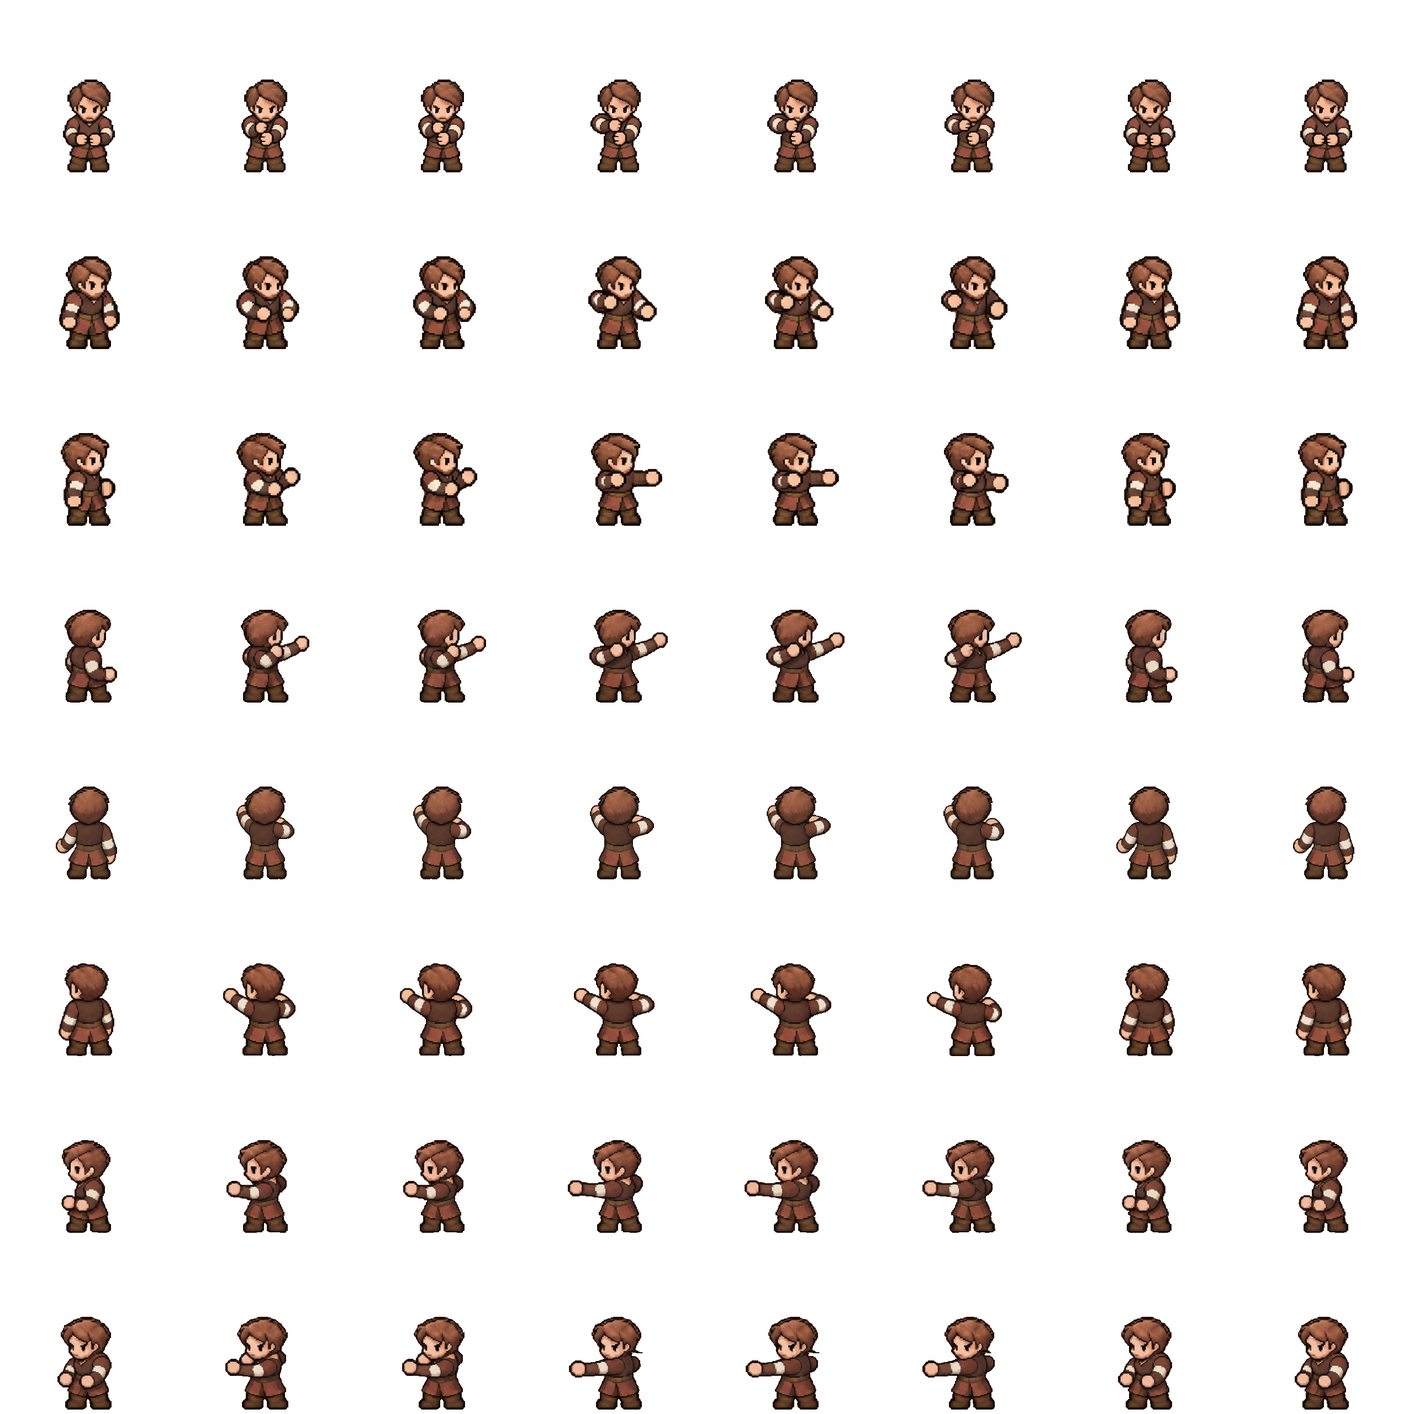
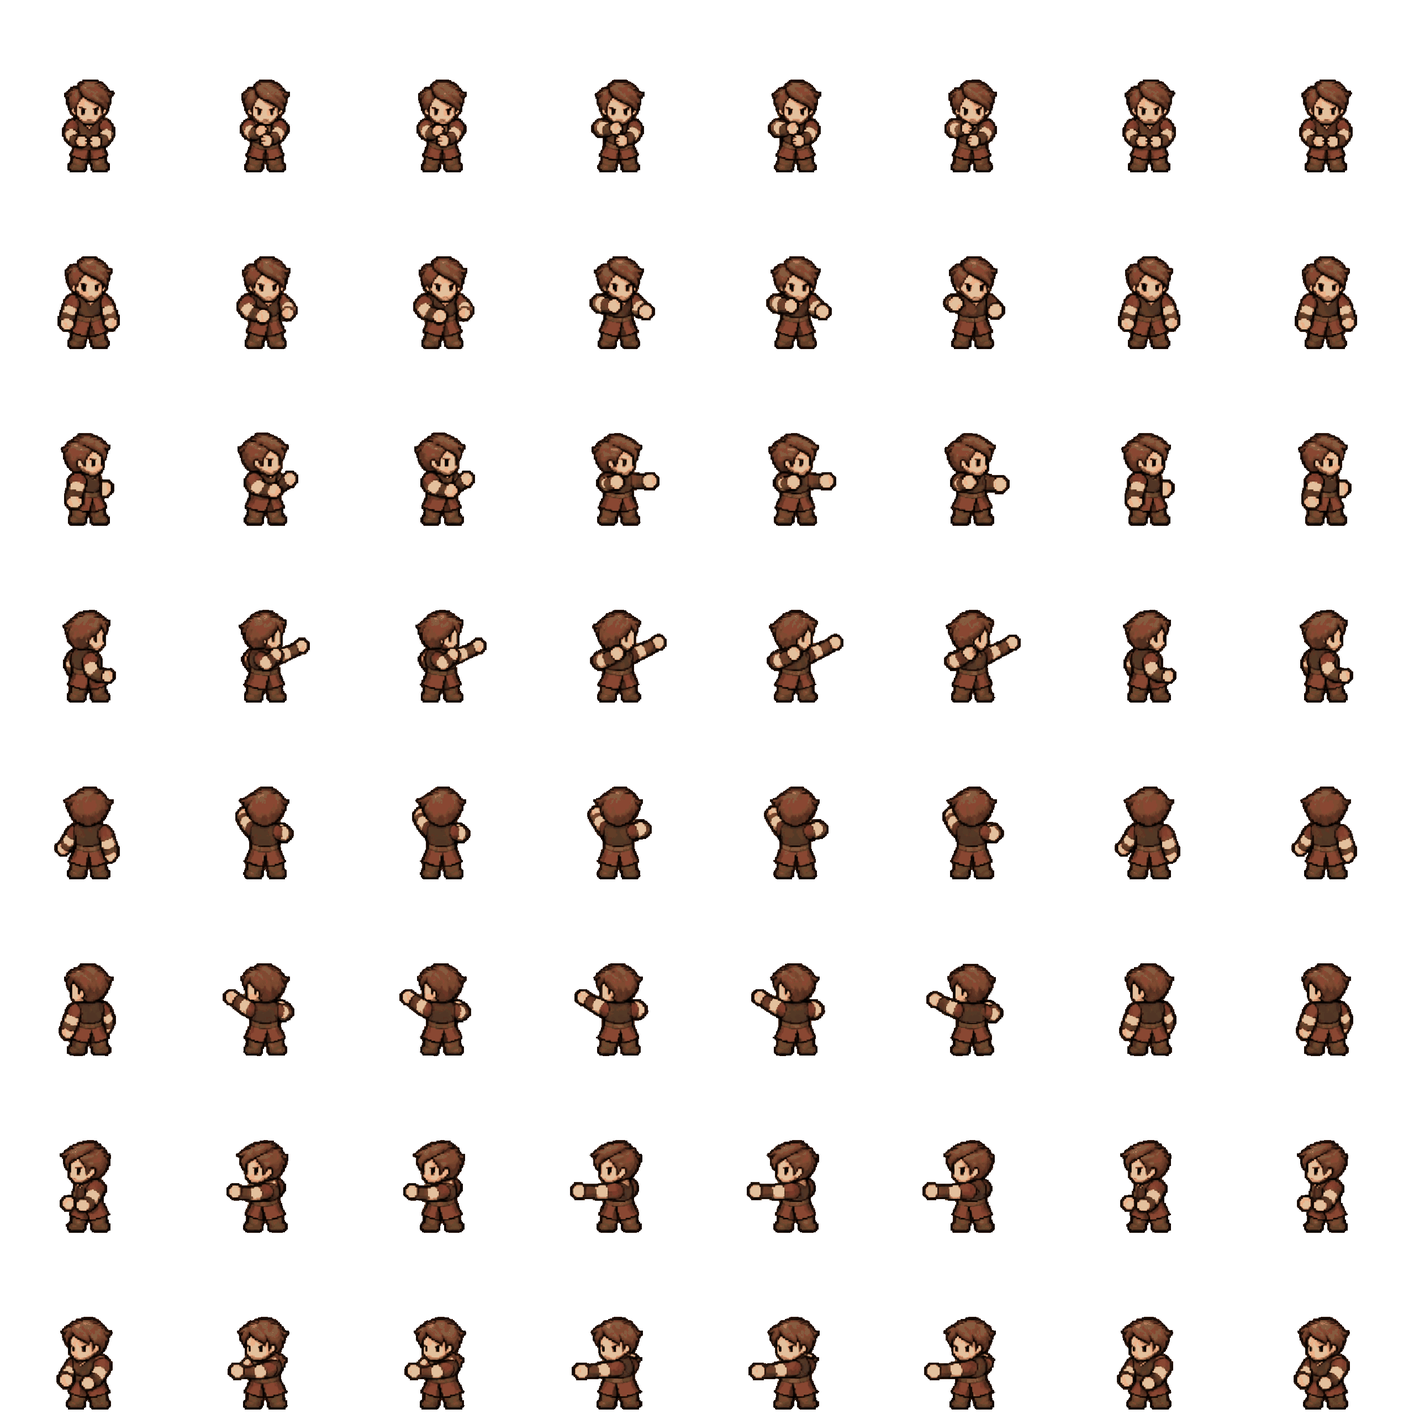
Apply walk-referenced Rowan appearance across action frames

diff --git a/scripts/apply_player_appearance.py b/scripts/apply_player_appearance.py
@@ -1,0 +1,108 @@
+import hashlib
+import json
+from pathlib import Path
+
+import numpy as np
+from PIL import Image
+from scipy.ndimage import find_objects, label
+
+
+ROOT = Path(__file__).resolve().parents[1]
+SOURCE = ROOT / 'assets-raw/characters/rowan-appearance-walk-v2'
+DESTINATION = ROOT / 'src/assets/characters'
+
+
+def digest(image):
+    return hashlib.sha256(image.tobytes()).hexdigest()
+
+
+def bounds(image):
+    return image.getchannel('A').point(lambda value: 255 if value > 110 else 0).getbbox()
+
+
+def foreground(image):
+    pixels = np.array(image.convert('RGBA'))
+    regions, count = label(pixels[:, :, 3] > 110)
+    assert count, 'Empty generated pose cell'
+    sizes = np.bincount(regions.ravel())
+    sizes[0] = 0
+    component = sizes.argmax()
+    assert sizes[component] > 150, 'Generated pose is too small'
+    pixels[:, :, 3] = np.where(regions == component, 255, 0)
+    result = Image.fromarray(pixels)
+    return result.crop(bounds(result))
+
+
+def extract_generated(image, columns):
+    pixels = np.array(image.convert('RGBA'))
+    regions, _ = label(pixels[:, :, 3] > 110)
+    sizes = np.bincount(regions.ravel())
+    groups = [[] for _ in range(columns)]
+    for component, region in enumerate(find_objects(regions), 1):
+        if sizes[component] < 300:
+            continue
+        ys, xs = region
+        column = min(columns - 1, int((xs.start + xs.stop) / 2 / (image.width / columns)))
+        sprite = pixels[ys, xs].copy()
+        sprite[:, :, 3] = np.where(regions[ys, xs] == component, 255, 0)
+        groups[column].append((ys.stop, Image.fromarray(sprite)))
+    assert all(len(group) == 8 for group in groups), [len(group) for group in groups]
+    return [[sprite for _, sprite in sorted(group, key=lambda item: item[0])] for group in groups]
+
+
+def normalize(image, original, palette):
+    sprite = foreground(image)
+    box = bounds(original)
+    height = box[3] - box[1]
+    sprite = sprite.resize((round(sprite.width * height / sprite.height), height), Image.Resampling.NEAREST)
+    alpha = sprite.getchannel('A')
+    sprite = sprite.convert('RGB').quantize(palette=palette, dither=Image.Dither.NONE).convert('RGBA')
+    sprite.putalpha(alpha)
+    assert sprite.width <= 300, 'Pose exceeds its cell'
+    original_pixels = np.array(original)
+    old_feet = np.nonzero(original_pixels[box[3] - 10:box[3], :, 3] > 110)[1]
+    new_feet = np.nonzero(np.array(sprite)[-10:, :, 3] > 110)[1]
+    x = round(old_feet.mean() - new_feet.mean())
+    y = box[3] - sprite.height
+    assert x >= 0 and x + sprite.width <= 320 and y >= 0
+    cell = Image.new('RGBA', (320, 320))
+    cell.alpha_composite(sprite, (x, y))
+    return cell
+
+
+def apply_appearance():
+    frames = json.loads((SOURCE / 'frames.json').read_text())
+    master = np.array(Image.open(DESTINATION / 'rowan-walk.png').convert('RGBA'))
+    colors = master[master[:, :, 3] > 220][:, :3]
+    palette = Image.fromarray(colors.reshape((-1, 1, 3))).quantize(colors=48)
+    report = {}
+    results = {}
+    for action, selected in frames.items():
+        original = Image.open(SOURCE / f'{action}-before.png').convert('RGBA')
+        generated = Image.open(SOURCE / f'{action}-poses.png').convert('RGBA')
+        extracted = extract_generated(generated, len(selected))
+        columns = original.width // 320
+        result = Image.new('RGBA', original.size)
+        for row in range(8):
+            replacements = {}
+            for index, column in enumerate(selected):
+                old = original.crop((column * 320, row * 320, (column + 1) * 320, (row + 1) * 320))
+                cell = extracted[index][row]
+                replacements[digest(old)] = normalize(cell, old, palette)
+            for column in range(columns):
+                old = original.crop((column * 320, row * 320, (column + 1) * 320, (row + 1) * 320))
+                if (action, row, column) == ('bow', 7, 4):
+                    old = original.crop((3 * 320, row * 320, 4 * 320, (row + 1) * 320))
+                assert digest(old) in replacements, (action, row, column, 'Missing source pose')
+                result.paste(replacements[digest(old)], (column * 320, row * 320))
+        results[action] = result
+        report[action] = {'rows': 8, 'columns': columns, 'frames': columns * 8, 'sourceColumns': selected}
+    for action, result in results.items():
+        suffix = '' if action == 'idle' else '-body'
+        result.save(DESTINATION / f'rowan-{action}{suffix}.png', optimize=True)
+    (SOURCE / 'export-report.json').write_text(json.dumps(report, indent=2) + '\n')
+    print('Applied walk appearance:', ', '.join(f'{action} {data["frames"]} frames' for action, data in report.items()))
+
+
+if __name__ == '__main__':
+    apply_appearance()

diff --git a/scripts/prepare_player_actions.py b/scripts/prepare_player_actions.py
@@ -68,3 +68,5 @@ if __name__ == '__main__':
     north_bow = prepare('bow', ROOT / 'assets-raw/characters/rowan-bow-north-v3/body-poses.png', 2, 2, write=False)
     right_arm = prepare('bow', ROOT / 'assets-raw/characters/rowan-bow-right-arm-v4/body-poses.png', 2, 2, write=False)
     export_rig(atlases, clean, DESTINATION, points, south_bow, rear_bow, handed_bow, north_bow, right_arm)
+    from apply_player_appearance import apply_appearance
+    apply_appearance()

diff --git a/assets-raw/characters/rowan-appearance-walk-v1/PROMPT.md b/assets-raw/characters/rowan-appearance-walk-v1/PROMPT.md
@@ -1,0 +1,7 @@
+Mode: built-in imagegen. Appearance master selected by user: runtime Rowan walk sheet. Input grid: walk references left, existing bow poses right. Output: two pose style samples for review; not installed in runtime.
+
+Refinement for sample-poses-v2.png (current review candidate):
+
+Use case: style-transfer. Input 1 is the canonical reference/target grid: LEFT column WALK MASTER (south and southwest), RIGHT column old bow poses. Input 2 is a rejected first style sample. Make a corrected two-sprite style proof, 1 column x 2 rows, transparent background. The first sample's face is too angular and severe, pointed chin/beard too long, pixel clusters too coarse, arms/cuffs too chunky. Match input1 LEFT WALK MASTER's EXACT small face identity, square dark chin shading, neutral black eyes, compact nose/mouth, rounded chestnut side-swept hairstyle, and fine pixel cluster scale. Do not use the old bow sheet face. Use master walk eyes and chin, do not invent pointed beard or angry eyebrows. Match the master head-to-torso ratio, brown leather vest, small brick-red shoulder panels, cream cuff bands, muted olive waistbelt with same width, brick-red split tunic, brown trousers and dark boots. Crisp but not exaggerated block pixels: pixel density must look the same as the actual walk sprites when displayed at same character height. Pose top: original bow south equipped rest, both hands forward at waist. Pose bottom: original southwest full draw, LEFT arm fully extended toward screen left, RIGHT drawing hand hidden behind torso, only rear elbow silhouette visible. Retain the targets' limb positions and directions. Output is a matching character in these poses, not a new character design. No bow/arrow/weapons, no text, no shadow. Use the walk master as a strict model sheet, not loose inspiration.
+
+Use case: style-transfer, identity-preserving game sprite appearance correction. Input is a 2x2 transparent reference grid. LEFT COLUMN is canonical Rowan from the WALK sheet: top south facing, bottom southwest facing. RIGHT COLUMN is the EDIT TARGET: top south equipped-rest pose, bottom southwest bow-draw pose with the far right drawing fist hidden by the body. Output ONLY the TWO EDITED TARGET sprites, in a 1-column 2-row transparent grid, no reference copies. Keep the targets' exact silhouettes, poses, limb positions, body directions, shoulder overlap and hand locations; no weapons. Change their APPEARANCE to match the corresponding LEFT canonical walk character exactly: same small crisp dark eyes, same face/jaw and dark chin shading, chestnut side-swept hair shape and highlights, dark brown vest, red-brown short shoulder panels and split tunic skirt, cream forearm cuffs, muted olive belt, brown trousers and dark blocky boots. Match the walk art's restrained warm palette, bold dark stepped pixel outlines, crisp small pixel clusters and flat limited-band shading. The current right-side targets are too smooth, too soft and too bright; remove that rendering mismatch. Preserve canonical walk identity without adding beard details not in reference, no glossy highlights, no gradients, no outlines of a different weight. Important: keep the target extended left bow-holding arm in bottom sprite exactly extended left at its current height, and keep the right drawing fist HIDDEN behind torso. Top sprite hands remain in original resting positions. Do not redraw anatomy or change handedness. Both targets have same character proportions and head/body pixel treatment as canonical walk. Feet aligned consistently, generous transparent cell padding, no labels, no ground shadow. This is a style proof for review, not an animation redesign.

diff --git a/docs/verification/rowan-appearance/README.md b/docs/verification/rowan-appearance/README.md
@@ -1,0 +1,20 @@
+# Rowan appearance consistency
+
+## Applied walk-based appearance — 2026-11-27
+
+The user selected the walk sheet as the master and authorized applying the adjustment to every frame. Idle (32), chop (64), bow (64), and fishing (64) now use revised walk-referenced artwork: 224 runtime frames across eight directions. The existing 64 walk frames remain unchanged. All four revised atlases use the same 48-color palette sampled from opaque walk pixels, with binary transparency and nearest-neighbor resizing.
+
+Built-in imagegen produced the four edited pose sources in `assets-raw/characters/rowan-appearance-walk-v2/`. The exact IDLE, CHOP, BOW and FISH prompts, walk master, original pose guides, previous runtime sheets and export report are saved there. `scripts/apply_player_appearance.py` detects complete character components per column before normalization, preserving feet even when generated row spacing varies. It aligns feet to the previous frames and expands pose sources into the runtime animation layout. Repeated poses reuse the same image; SW bow columns 4 and 5 share the revised full-draw artwork.
+
+Rebuild with `python3 scripts/prepare_player_actions.py`, which runs the appearance exporter after the pose export. `python3 scripts/apply_player_appearance.py` reapplies just the appearance. Rebuilding was checked byte-for-byte: all runtime outputs are identical, and the walk atlas and hand sockets remain unchanged. No bow/string rendering, timing, combat, fishing or other equipment code was changed. The previously reported string-side issue remains unresolved.
+
+Validation: all 224 revised cells are nonempty, have no cell-edge clipping, use binary alpha and share at most 48 visible colors. All 36 existing tests pass; the multiplayer test needed a separate local-port-enabled run after sandbox EPERM. Production build passes. Browser verification stepped all 288 frames across all five sheets, played each action and checked mobile/reduced-motion behavior with no page/console errors. Rendered grip samples show the left palm at the bow grip in all 24 W/SW/NW cells. These checks establish export/runtime integrity, not exact visual identity or user acceptance. Actual-game visual acceptance remains pending.
+
+## Review images
+
+- `applied-directions.png`: walk master followed by idle, chop, bow and fish, all eight directions at rest.
+- `applied-action-poses.png`: the same comparison during action poses.
+- `idle-all-frames.png`, `chop-body-all-frames.png`, `bow-body-all-frames.png`, `fish-body-all-frames.png`: every revised frame, labeled by row/column.
+- `idle-equipped.png`, `walk-equipped.png`, `chop-equipped.png`, `bow-equipped.png`, `fish-equipped.png`: rendered preview evidence.
+
+The older `walk-style-sample.png` is the initial two-pose proposal. Its generated sources and prompts remain under `rowan-appearance-walk-v1/` as an experiment record; it is not the installed artwork.

diff --git a/assets-raw/characters/rowan-appearance-walk-v2/CHOP-PROMPT.md b/assets-raw/characters/rowan-appearance-walk-v2/CHOP-PROMPT.md
@@ -1,0 +1,3 @@
+Generated with built-in imagegen. Reference: walk-master.png. Edit target: chop-poses-input.png. Export: scripts/apply_player_appearance.py expands selected poses to every runtime frame and maps colors to a shared walk-derived palette.
+
+Use case: style-transfer for production 2D pixel-art animation. IMAGE 1 is the WALK MASTER: eight directions in row-major order S, SE, E, NE, N, NW, W, SW. IMAGE 2 is the EDIT TARGET CHOP sprite atlas: exactly 4 columns by 8 rows, 32 individual sprites. Repaint EVERY target sprite to match the WALK MASTER's exact Rowan identity and rendering. Output the same 4x8 grid, all 32 sprites, each fully separated in its original cell, transparent background. Preserve each target's exact pose, facing, arm/hand locations, foot placement, animation sequence and occlusion. This is appearance correction ONLY: do not redesign animation or swap hands. Copy corresponding walk-direction head shape, neutral eyes, compact face with square dark chin shading, side-swept chestnut hairstyle, compact chibi proportions. Same dark brown leather vest, small red-brown shoulder panels, cream wrist/forearm cuffs, muted olive belt, split red-brown tunic, brown trousers, dark boots in EVERY frame. Match the WALK MASTER's fine crisp pixel density, bold stepped dark outlines, limited warm palette and restrained flat shade clusters. Avoid softer painterly bow/fishing style, blond hair, different face, pointed beard, thin tall body, oversized heads/fists, clothing changes, blur, antialiasing, glossy gradients. Arms must continue naturally from shoulders, far hands remain occluded where target hides them. No equipment/weapons, no labels, no extra cells, no cropped feet, no checkerboard, no scene/shadow. Repeated poses must remain visually identical with only the target's intended motion/blink. All eight direction rows must be preserved. Columns in this chop sheet are pose guides, not walking frames. Use exact walk master appearance throughout.

diff --git a/assets-raw/characters/rowan-appearance-walk-v2/FISH-PROMPT.md b/assets-raw/characters/rowan-appearance-walk-v2/FISH-PROMPT.md
@@ -1,0 +1,3 @@
+Generated with built-in imagegen. Reference: walk-master.png. Edit target: fish-poses-input.png. Export: scripts/apply_player_appearance.py expands selected poses to every runtime frame and maps colors to a shared walk-derived palette.
+
+Use case: style-transfer for production 2D pixel-art animation. IMAGE 1 is the WALK MASTER: eight directions in row-major order S, SE, E, NE, N, NW, W, SW. IMAGE 2 is the EDIT TARGET FISH sprite atlas: exactly 6 columns by 8 rows, 48 individual sprites. Repaint EVERY target sprite to match the WALK MASTER's exact Rowan identity and rendering. Output the same 6x8 grid, all 48 sprites, each fully separated in its original cell, transparent background. Preserve each target's exact pose, facing, arm/hand locations, foot placement, animation sequence and occlusion. This is appearance correction ONLY: do not redesign animation or swap hands. Copy corresponding walk-direction head shape, neutral eyes, compact face with square dark chin shading, side-swept chestnut hairstyle, compact chibi proportions. Same dark brown leather vest, small red-brown shoulder panels, cream wrist/forearm cuffs, muted olive belt, split red-brown tunic, brown trousers, dark boots in EVERY frame. Match the WALK MASTER's fine crisp pixel density, bold stepped dark outlines, limited warm palette and restrained flat shade clusters. Avoid softer painterly bow/fishing style, blond hair, different face, pointed beard, thin tall body, oversized heads/fists, clothing changes, blur, antialiasing, glossy gradients. Arms must continue naturally from shoulders, far hands remain occluded where target hides them. No equipment/weapons, no labels, no extra cells, no cropped feet, no checkerboard, no scene/shadow. Repeated poses must remain visually identical with only the target's intended motion/blink. All eight direction rows must be preserved. Columns in this fish sheet are pose guides, not walking frames. Use exact walk master appearance throughout.

diff --git a/assets-raw/characters/rowan-appearance-walk-v2/IDLE-PROMPT.md b/assets-raw/characters/rowan-appearance-walk-v2/IDLE-PROMPT.md
@@ -1,0 +1,3 @@
+Generated with built-in imagegen. Reference: walk-master.png. Edit target: idle-poses-input.png. Export: scripts/apply_player_appearance.py expands selected poses to every runtime frame and maps colors to a shared walk-derived palette.
+
+Use case: style-transfer for production 2D pixel-art animation. IMAGE 1 is the WALK MASTER: eight directions in row-major order S, SE, E, NE, N, NW, W, SW. IMAGE 2 is the EDIT TARGET IDLE sprite atlas: exactly 4 columns by 8 rows, 32 individual sprites. Repaint EVERY target sprite to match the WALK MASTER's exact Rowan identity and rendering. Output the same 4x8 grid, all 32 sprites, each fully separated in its original cell, transparent background. Preserve each target's exact pose, facing, arm/hand locations, foot placement, animation sequence and occlusion. This is appearance correction ONLY: do not redesign animation or swap hands. Copy corresponding walk-direction head shape, neutral eyes, compact face with square dark chin shading, side-swept chestnut hairstyle, compact chibi proportions. Same dark brown leather vest, small red-brown shoulder panels, cream wrist/forearm cuffs, muted olive belt, split red-brown tunic, brown trousers, dark boots in EVERY frame. Match the WALK MASTER's fine crisp pixel density, bold stepped dark outlines, limited warm palette and restrained flat shade clusters. Avoid softer painterly bow/fishing style, blond hair, different face, pointed beard, thin tall body, oversized heads/fists, clothing changes, blur, antialiasing, glossy gradients. Arms must continue naturally from shoulders, far hands remain occluded where target hides them. No equipment/weapons, no labels, no extra cells, no cropped feet, no checkerboard, no scene/shadow. Repeated poses must remain visually identical with only the target's intended motion/blink. All eight direction rows must be preserved. Columns in this idle sheet are pose guides, not walking frames. Use exact walk master appearance throughout.

diff --git a/assets-raw/characters/rowan-appearance-walk-v2/BOW-PROMPT.md b/assets-raw/characters/rowan-appearance-walk-v2/BOW-PROMPT.md
@@ -1,0 +1,3 @@
+Generated with built-in imagegen. Reference: walk-master.png. Edit target: bow-poses-input.png. Export: scripts/apply_player_appearance.py expands selected poses to every runtime frame and maps colors to a shared walk-derived palette.
+
+Use case: style-transfer for production 2D pixel-art animation. IMAGE 1 is the WALK MASTER: eight directions in row-major order S, SE, E, NE, N, NW, W, SW. IMAGE 2 is the EDIT TARGET BOW sprite atlas: exactly 4 columns by 8 rows, 32 individual sprites. Repaint EVERY target sprite to match the WALK MASTER's exact Rowan identity and rendering. Output the same 4x8 grid, all 32 sprites, each fully separated in its original cell, transparent background. Preserve each target's exact pose, facing, arm/hand locations, foot placement, animation sequence and occlusion. This is appearance correction ONLY: do not redesign animation or swap hands. Copy corresponding walk-direction head shape, neutral eyes, compact face with square dark chin shading, side-swept chestnut hairstyle, compact chibi proportions. Same dark brown leather vest, small red-brown shoulder panels, cream wrist/forearm cuffs, muted olive belt, split red-brown tunic, brown trousers, dark boots in EVERY frame. Match the WALK MASTER's fine crisp pixel density, bold stepped dark outlines, limited warm palette and restrained flat shade clusters. Avoid softer painterly bow/fishing style, blond hair, different face, pointed beard, thin tall body, oversized heads/fists, clothing changes, blur, antialiasing, glossy gradients. Arms must continue naturally from shoulders, far hands remain occluded where target hides them. No equipment/weapons, no labels, no extra cells, no cropped feet, no checkerboard, no scene/shadow. Repeated poses must remain visually identical with only the target's intended motion/blink. All eight direction rows must be preserved. Columns in this bow sheet are pose guides, not walking frames. Use exact walk master appearance throughout.

diff --git a/README.md b/README.md
@@ -84,3 +84,5 @@ firebase deploy --only hosting
 ## Character sprite inspection
 
 Run `npm run dev` and open [Sprite Inspector](http://localhost:3000/sprites.html). The page includes the five active Rowan atlases, synchronized eight-direction animations, frame stepping, full-sheet cell selection, zoom, backgrounds, and authored hand-grip overlays. Sheet order includes all frames; game frame selection calls the current action selector (fishing uses a labeled staged demo). Equipped previews reuse the game’s 2D pixel-art axe, fantasy bow and fishing rod sprites, plus directional nocked-arrow artwork with a live line and bobber, with body-only comparison and selectable camera angles. Idle and walk can be previewed with any tool. The axe and fantasy bow use eight authored direction views, with Open item sheet and Open arrow sheet links for inspection. The full character-sheet view remains body-only. The page is also included in production builds at `/sprites.html`.
+
+Character action sheets use a shared walk-based appearance and palette. Regenerate them with `python3 scripts/prepare_player_actions.py`; source art and verification are documented in `docs/verification/rowan-appearance/README.md`.
